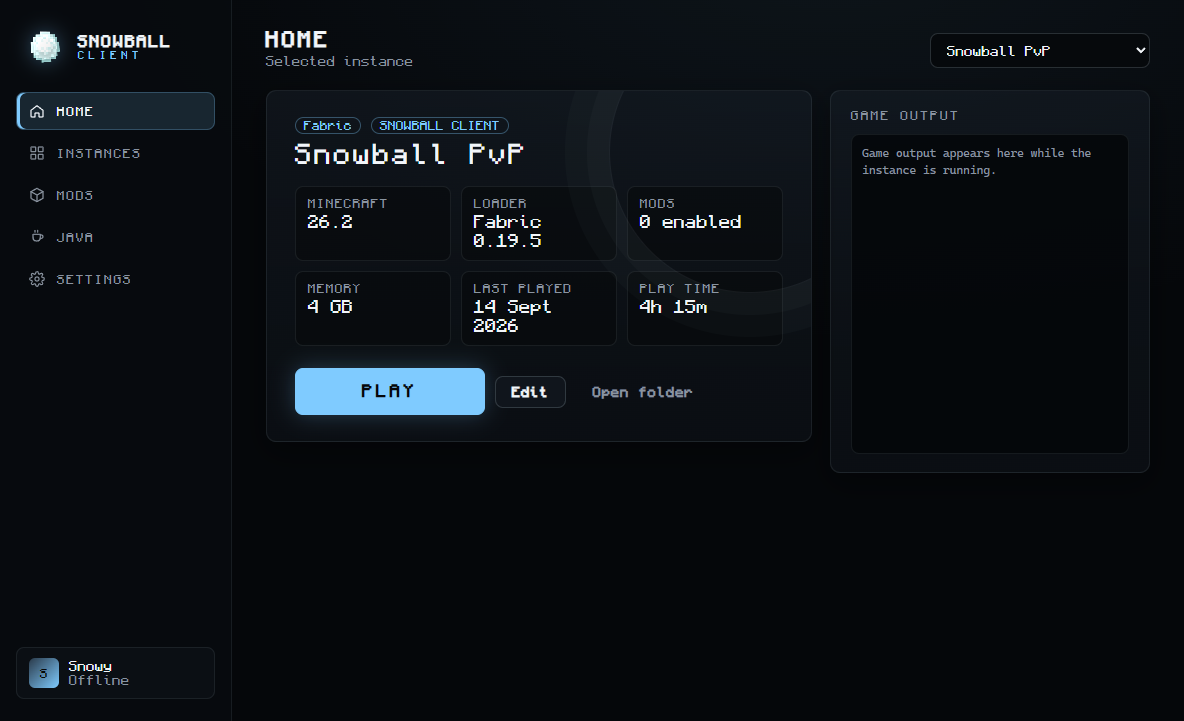
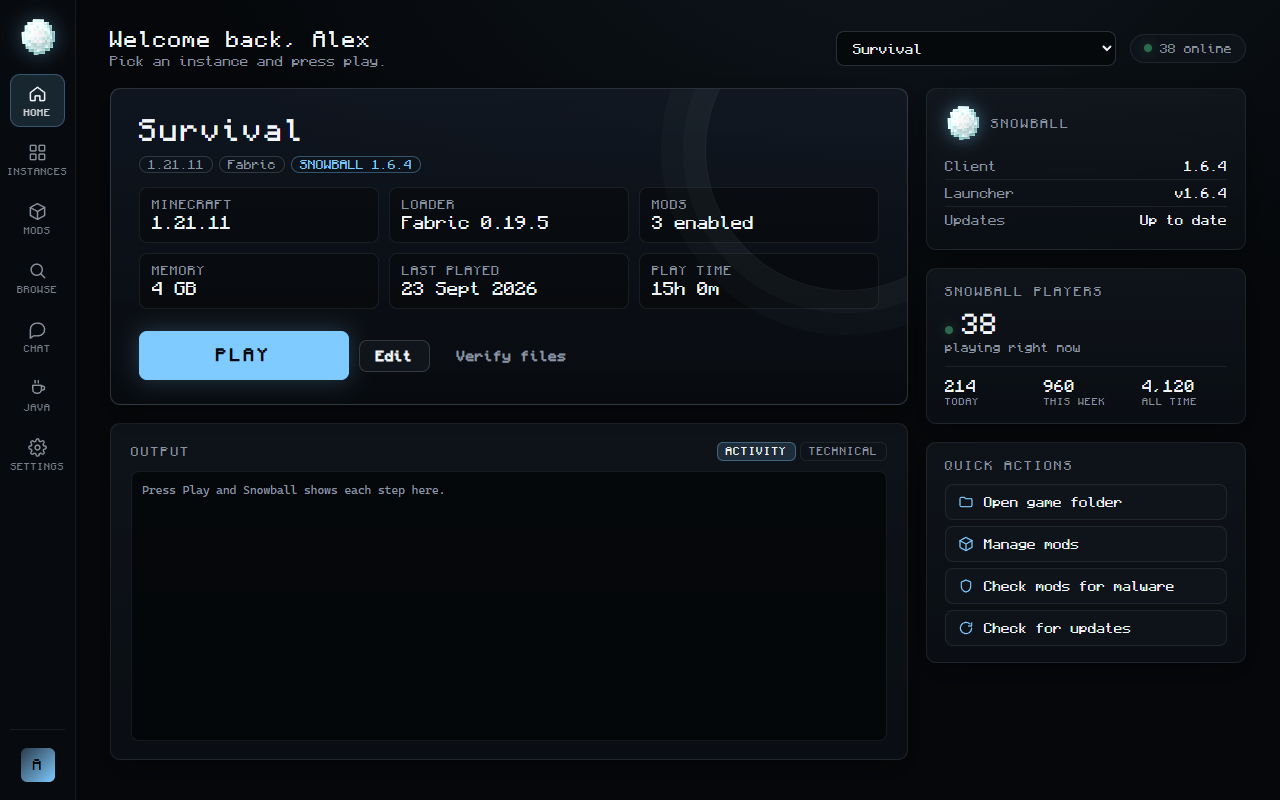
1.7.0: download links and checksums, a quieter look, current launcher picture

diff --git a/index.html b/index.html
@@ -17,6 +17,7 @@
     <link rel="stylesheet" href="styles.css?v=5" />
     <link rel="stylesheet" href="demo.css?v=1" />
     <link rel="stylesheet" href="refresh.css?v=1" />
+    <link rel="stylesheet" href="polish.css?v=1" />
     <script>document.documentElement.classList.add('js');</script>
   </head>
   <body>
@@ -38,7 +39,7 @@
       <section class="hero">
         <div class="snow" aria-hidden="true"></div>
         <div class="wrap">
-          <a class="pill" href="#download"><span class="dot"></span>Version 1.6.3 - updates itself when it starts</a>
+          <a class="pill" href="#download"><span class="dot"></span>Version 1.7.0 - updates itself when it starts</a>
           <img class="hero-logo" src="assets/logo.png" alt="Snowball Client logo" width="112" height="112" />
           <h1>SNOWBALL <span>CLIENT</span></h1>
           <p class="lead">A fast, clean Minecraft: Java Edition launcher and client. Your own main menu, a radial in-game menu, isolated instances, and a launcher that keeps itself up to date.</p>
@@ -59,7 +60,7 @@
         <div class="wrap stats">
           <div><strong>50+</strong><span>modules</span></div>
           <div><strong>3</strong><span>Minecraft versions</span></div>
-          <div><strong>0.4s</strong><span>from Play to game</span></div>
+          <div><strong>4</strong><span>mod loaders</span></div>
           <div><strong>0</strong><span>cheats</span></div>
         </div>
       </section>
@@ -94,6 +95,9 @@
             <div class="card reveal"><span class="tag">NEW</span><h3>Discord presence</h3><p>Show what you are up to, with the server read from the game itself so nobody can fake where they are playing.</p></div>
             <div class="card reveal"><span class="tag">NEW</span><h3>Snowball loading screen</h3><p>The red Mojang screen becomes a Snowball one, with a real progress bar while the game loads.</p></div>
             <div class="card reveal"><span class="tag">NEW</span><h3>Snowball in the player list</h3><p>Players on Snowball Client get a snowball next to their name when you hold Tab.</p></div>
+            <div class="card reveal"><span class="tag">NEW</span><h3>Your colours</h3><p>Pick the colour of every Snowball menu, and the tint behind them, from swatches or a full colour picker. It changes as you drag.</p></div>
+            <div class="card reveal"><span class="tag">NEW</span><h3>Badges above heads</h3><p>Snowball players carry their rank badge on the name above their head, so you can spot them in the world and in third person.</p></div>
+            <div class="card reveal"><span class="tag">NEW</span><h3>Known mods, recognised</h3><p>The mod check knows Modrinth's releases by fingerprint, so Fabric API and friends are set aside and only files it cannot vouch for are read.</p></div>
             <div class="card reveal"><span class="tag">MENU</span><h3>Your own main menu</h3><p>The title screen becomes the Snowball menu: your account, Singleplayer, Multiplayer and quick buttons for the game's own screens, over Minecraft's own panorama. Switch it off any time.</p></div>
           </div>
         </div>
@@ -113,21 +117,28 @@
           </div>
           <figure class="window">
             <div class="window-bar"><i></i><i></i><i></i><span>Minecraft 1.8.9</span></div>
-            <img src="assets/menu-189.jpg" alt="The Snowball Client radial menu running on Minecraft 1.8.9" width="1280" height="720" loading="lazy" />
+            <img src="assets/menu-189.jpg?v=2" alt="The Snowball Client radial menu running on Minecraft 1.8.9" width="474" height="330" loading="lazy" />
           </figure>
         </div>
       </section>
 
       <section id="launcher" class="alt">
-        <div class="wrap split reverse reveal">
-          <div>
-            <p class="section-title">LAUNCHER</p>
-            <h2 class="section-heading">Instances that never conflict</h2>
-            <p class="section-lead">Each instance has its own version, mods, worlds and settings, so your PvP setup never breaks your modpack.</p>
-            <ul class="checks">
+        <div class="wrap">
+          <div class="split reverse reveal launcher-intro">
+            <div>
+              <p class="section-title">LAUNCHER</p>
+              <h2 class="section-heading">Instances that never conflict</h2>
+              <p class="section-lead">Each instance has its own version, mods, worlds and settings, so your PvP setup never breaks your modpack. Pick one and press Play: Minecraft, Java, the loader and Snowball Client are all handled for you.</p>
+            </div>
+            <figure class="window">
+              <div class="window-bar"><i></i><i></i><i></i><span>Snowball Client Launcher</span></div>
+              <img src="assets/launcher-home.png?v=2" alt="The Snowball Client launcher home page: the selected instance with its version, loader, mods and memory, a Play button, and the Snowball player count" width="1280" height="800" loading="lazy" />
+            </figure>
+          </div>
+          <ul class="checks columns reveal">
               <li><strong>Updates itself</strong>: new versions arrive in the background and install when you restart, so you never run an installer again</li>
               <li><strong>Escaping another launcher?</strong> Import instances, mods, worlds and settings from Modrinth, CurseForge, Prism, MultiMC, ATLauncher, GDLauncher or the official launcher</li>
-              <li><strong>Check mods</strong>: every jar is read on your computer and told back to you in plain language - what it can run, read or send</li>
+              <li><strong>Check mods</strong>: releases from Modrinth are recognised by fingerprint, and every other jar is read on your computer and told back to you in plain language - what it can run, read or send</li>
               <li><strong>Snowball Client built in</strong>: loaded by the launcher, never a mod file you can lose, checked and repaired before every launch</li>
               <li><strong>Readable activity log</strong>: see each step, from checking files to joining a world, with the full game log one click away</li>
               <li><strong>Starts fast</strong>: game files are checked once and trusted while they stay untouched, so pressing Play starts the game instead of re-checking thousands of files</li>
@@ -140,12 +151,9 @@
               <li><strong>Mod manager</strong> that catches duplicates and version conflicts</li>
               <li><strong>Microsoft sign-in</strong> on Microsoft's own login page</li>
               <li><strong>Crash detection</strong> and live game logs</li>
-            </ul>
-          </div>
-          <figure class="window">
-            <div class="window-bar"><i></i><i></i><i></i><span>Snowball Client Launcher</span></div>
-            <img src="assets/launcher-browse.png" alt="The Snowball Client launcher mod browser listing Fabric API, Sodium and Iris with install buttons" width="1184" height="721" loading="lazy" />
-          </figure>
+              <li><strong>Make it yours</strong>: your own colour, a picture behind the launcher, and a compact layout for small screens</li>
+              <li><strong>Fits any screen</strong>, from a 1280x720 laptop at 150% to a 1440p monitor</li>
+          </ul>
         </div>
       </section>
 
@@ -218,28 +226,28 @@
         <div class="wrap">
           <p class="section-title">DOWNLOAD</p>
           <h2 class="section-heading">Get Snowball Client</h2>
-          <p class="section-lead center">Version 1.6.3 for Windows 10 and 11 (64-bit), with Snowball Client for Minecraft 1.8.9, 1.21.11 and 26.2. You need a Microsoft account that owns Minecraft: Java Edition.</p>
+          <p class="section-lead center">Version 1.7.0 for Windows 10 and 11 (64-bit), with Snowball Client for Minecraft 1.8.9, 1.21.11 and 26.2. You need a Microsoft account that owns Minecraft: Java Edition.</p>
           <div class="options">
             <div class="card featured reveal">
               <span class="tag">RECOMMENDED</span>
               <h3>Installer</h3>
               <p>Installs Snowball Client with a Start menu shortcut, and updates itself from then on.</p>
-              <p class="size">.exe - 108 MB</p>
-              <a class="btn primary" href="https://github.com/met4a/snowball-website/releases/download/v1.6.3/SnowballClient-1.6.3-setup.exe">Download installer</a>
+              <p class="size">.exe - 113 MB</p>
+              <a class="btn primary" href="https://github.com/met4a/snowball-website/releases/download/v1.7.0/SnowballClient-1.7.0-setup.exe">Download installer</a>
             </div>
             <div class="card reveal">
               <span class="tag">PORTABLE</span>
               <h3>Portable</h3>
               <p>A single file you can run from anywhere. Nothing is installed.</p>
-              <p class="size">.exe - 108 MB</p>
-              <a class="btn" href="https://github.com/met4a/snowball-website/releases/download/v1.6.3/SnowballClient-1.6.3-portable.exe">Download portable</a>
+              <p class="size">.exe - 113 MB</p>
+              <a class="btn" href="https://github.com/met4a/snowball-website/releases/download/v1.7.0/SnowballClient-1.7.0-portable.exe">Download portable</a>
             </div>
             <div class="card reveal">
               <span class="tag">ZIP</span>
               <h3>Zip archive</h3>
               <p>For when your browser refuses to download a .exe. Unpack it and run Snowball Client Launcher.exe.</p>
-              <p class="size">.zip - 148 MB</p>
-              <a class="btn" href="https://github.com/met4a/snowball-website/releases/download/v1.6.3/SnowballClient-1.6.3-win.zip">Download zip</a>
+              <p class="size">.zip - 155 MB</p>
+              <a class="btn" href="https://github.com/met4a/snowball-website/releases/download/v1.7.0/SnowballClient-1.7.0-win.zip">Download zip</a>
             </div>
           </div>
           <p class="note">Windows may show "Windows protected your PC" because the app is new and not yet code-signed. Choose More info, then Run anyway.</p>
@@ -257,12 +265,12 @@
           <details class="checksums">
             <summary>SHA-256 checksums</summary>
             <dl>
-              <dt>SnowballClient-1.6.3-setup.exe</dt>
-              <dd>6837cdcaae8a653dec23f195df473a11255f94ef4efeffc70ee20a8f265dcd10</dd>
-              <dt>SnowballClient-1.6.3-portable.exe</dt>
-              <dd>35526713f57e5406bdffe8230f38e331aa3eca3d4145ba918202b036262635e9</dd>
-              <dt>SnowballClient-1.6.3-win.zip</dt>
-              <dd>f36522d0792a27ffa33e2513be60e638068e1575b2241df766f1cb9377847bf8</dd>
+              <dt>SnowballClient-1.7.0-setup.exe</dt>
+              <dd>9ab795fa9987a6304c411c1d762f8651e700a10390f8d496e73c1e7c635ca475</dd>
+              <dt>SnowballClient-1.7.0-portable.exe</dt>
+              <dd>83cf570d646f66f2dca31fb6c384e039502a04cfe350777c3de78541e1a7039f</dd>
+              <dt>SnowballClient-1.7.0-win.zip</dt>
+              <dd>61ef1ffaf949f98b60be7f4b2d31780ba8581ad79489b405674da1ef30740748</dd>
             </dl>
           </details>
           <p class="note"><a href="https://github.com/met4a/snowball-website/releases">All releases</a></p>
@@ -307,7 +315,7 @@
           </details>
           <details>
             <summary>Do I have to reinstall it for every update?</summary>
-            <p>No. From 1.4.0 the launcher updates itself: a new version downloads in the background and takes over when you restart, and your instances, mods and settings are untouched. The portable build cannot replace itself, so it tells you when a new file is on the website.</p>
+            <p>No. The launcher updates itself when it starts: if a new version is out it is installed and Snowball restarts into it, waiting if a game is running, and your instances, mods and settings are untouched. One exception: versions 1.6.2 and older had a fault that stopped them updating, so if you are on one of those, download the installer below once - every version after that updates itself. The portable build cannot replace itself, so it tells you when a new file is on the website.</p>
           </details>
           <details>
             <summary>How do I move over from another launcher?</summary>
@@ -315,7 +323,7 @@
           </details>
           <details>
             <summary>How do I know a mod is safe?</summary>
-            <p>The Mods page has a Check mods button. Every jar is read on your computer and reported in plain language: whether it can run programs, read your Discord or browser folders, reach your Minecraft session, or send data to a webhook. Nothing is uploaded anywhere, and the report always shows which file matched so you can judge for yourself.</p>
+            <p>The Mods page has a Check mods button. Mods downloaded from Modrinth are recognised by their fingerprint (a SHA-1 checksum - only that is sent, never the file) and set aside as known releases. Every other jar is read on your computer and reported in plain language: whether it can run programs, read your Discord or browser folders, reach your Minecraft session, or send data to a webhook. The report always shows which file matched so you can judge for yourself.</p>
           </details>
           <details>
             <summary>Will a performance profile install mods I did not ask for?</summary>

diff --git a/polish.css b/polish.css
@@ -1,0 +1,118 @@
+/*
+ * Loaded last. Brings the site back to the launcher's own look - one ice colour, flat surfaces,
+ * nothing that moves unless it means something - and fixes the layouts that fell apart: download
+ * options wrapping two-and-one, centred headings with left-aligned labels, and the launcher list
+ * running a screen past its picture.
+ */
+
+:root {
+  /* The violet was never part of Snowball; everything that used it now uses the ice colour. */
+  --violet: var(--ice);
+}
+
+body {
+  background:
+    radial-gradient(1100px 600px at 50% -220px, rgba(127, 203, 255, 0.12), transparent 65%),
+    #05070a;
+}
+
+/* ---------- quieter hero ---------- */
+.hero::before,
+.hero::after,
+.hero-shot::after {
+  display: none;
+}
+.hero h1 {
+  background: none;
+  color: var(--text);
+}
+.hero h1 span {
+  background: none;
+  color: var(--ice);
+}
+.hero-logo {
+  filter: drop-shadow(0 0 22px rgba(127, 203, 255, 0.35));
+}
+
+/* ---------- buttons: solid, no sheen ---------- */
+.btn.primary {
+  background: var(--ice);
+  color: #04121d;
+  box-shadow: none;
+}
+.btn.primary:hover {
+  background: #b9e3ff;
+  box-shadow: 0 8px 24px rgba(127, 203, 255, 0.22);
+}
+.btn.primary::after {
+  display: none;
+}
+.btn:hover {
+  transform: translateY(-1px);
+}
+
+/* ---------- cards: a border that lights up, not a gradient ring ---------- */
+.grid .card::before {
+  display: none;
+}
+.card:hover {
+  transform: translateY(-2px);
+  border-color: rgba(127, 203, 255, 0.35);
+  box-shadow: 0 18px 40px rgba(0, 0, 0, 0.4);
+}
+.stats strong {
+  background: none;
+  color: var(--text);
+}
+.site-header .nav a::after {
+  background: var(--ice);
+}
+
+/* ---------- labels line up with their headings ---------- */
+.section-title.center {
+  display: flex;
+  justify-content: center;
+}
+
+/* ---------- features: four across, and nothing left on its own ---------- */
+#features .grid {
+  grid-template-columns: repeat(auto-fill, minmax(250px, 1fr));
+}
+
+/* ---------- launcher: picture beside the introduction, the list underneath ---------- */
+.launcher-intro {
+  align-items: center;
+}
+ul.checks.columns {
+  display: grid;
+  grid-template-columns: repeat(auto-fill, minmax(300px, 1fr));
+  column-gap: 32px;
+  margin-top: 40px;
+}
+ul.checks.columns li:last-child {
+  border-bottom: 1px solid var(--border);
+}
+
+/* ---------- download: three across ---------- */
+.download .options {
+  max-width: 1040px;
+  grid-template-columns: repeat(auto-fit, minmax(240px, 1fr));
+}
+
+/* ---------- small screens ---------- */
+@media (max-width: 720px) {
+  ul.checks.columns {
+    grid-template-columns: 1fr;
+    margin-top: 28px;
+  }
+  .hero-meta b {
+    margin: 0 4px;
+  }
+}
+
+/* Every framed picture fills its frame, whatever size the file itself is. */
+.window img {
+  display: block;
+  width: 100%;
+  height: auto;
+}
